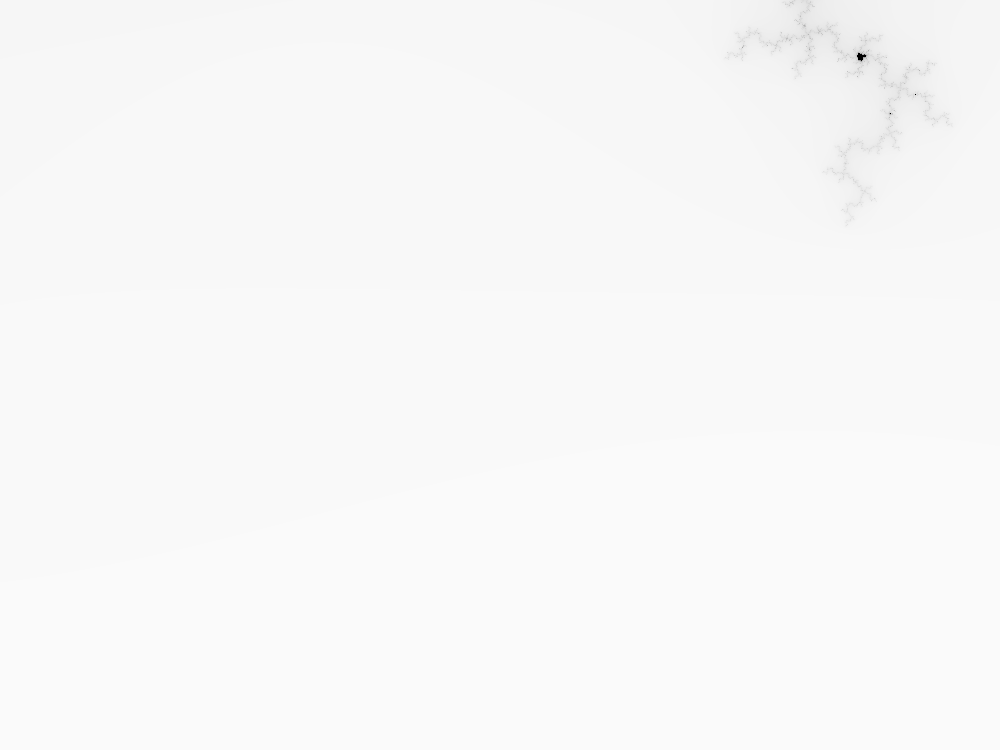
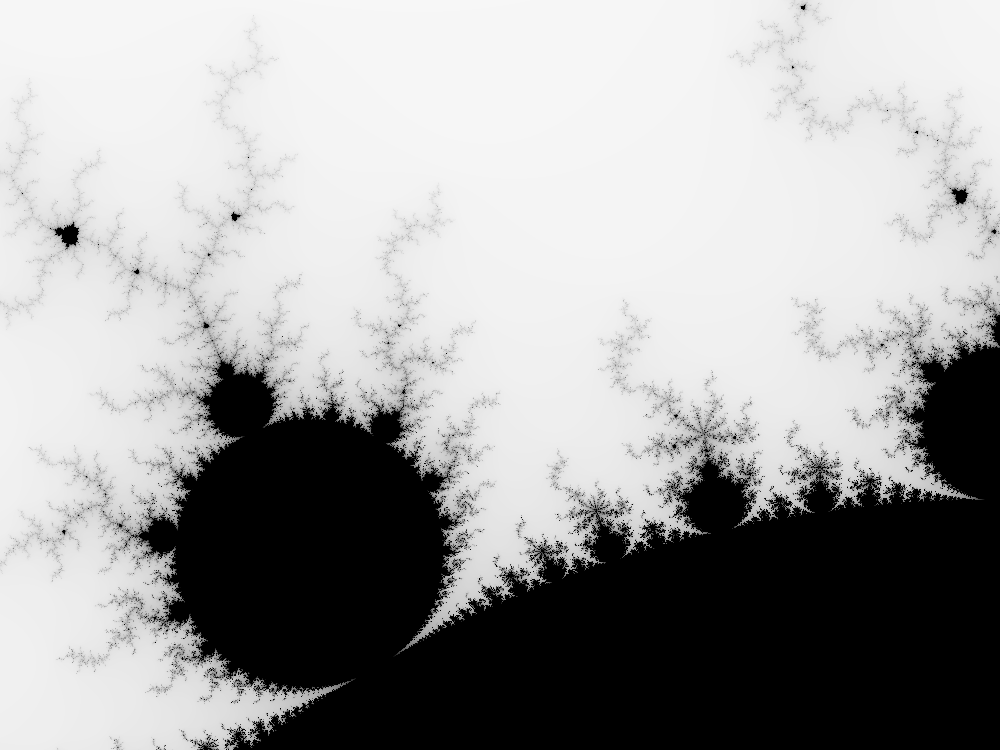
Chapter 2.6 並列化

diff --git a/02_chapter/mandelbrot/src/main.rs b/02_chapter/mandelbrot/src/main.rs
@@ -23,7 +23,27 @@ fn main() {
     let lower_right = parse_complex(&args[4]).expect("error parsing lower right corner point");
 
     let mut pixels = vec![0; bounds.0 * bounds.1];
-    render(&mut pixels, bounds, upper_left, lower_right);
+
+    let thread = 8;
+    let rows_per_band = bounds.1 / thread + 1;
+
+    {
+        let bands: Vec<&mut [u8]> = pixels.chunks_mut(rows_per_band * bounds.0).collect();
+        crossbeam::scope(|spawner| {
+            for (i, band) in bands.into_iter().enumerate() {
+                let top = rows_per_band * i;
+                let height = band.len() / bounds.0;
+                let band_bounds = (bounds.0, height);
+                let band_upper_left = pixel_to_point(bounds, (0, top), upper_left, lower_right);
+                let band_lower_right =
+                    pixel_to_point(bounds, (bounds.0, top + height), upper_left, lower_right);
+                spawner.spawn(move |_| {
+                    render(band, band_bounds, band_upper_left, band_lower_right);
+                });
+            }
+        })
+        .unwrap();
+    }
 
     write_image(&args[1], &pixels, bounds).expect("error writing PNG file")
 }
@@ -39,8 +59,8 @@ fn escape_time(c: Complex<f64>, limit: usize) -> Option<usize> {
     None
 }
 
-fn parse_pair<T: FromStr>(s: &str, spearator: char) -> Option<(T, T)> {
-    match s.find(spearator) {
+fn parse_pair<T: FromStr>(s: &str, separator: char) -> Option<(T, T)> {
+    match s.find(separator) {
         None => None,
         Some(index) => match (T::from_str(&s[..index]), T::from_str(&s[index + 1..])) {
             (Ok(l), Ok(r)) => Some((l, r)),
@@ -69,7 +89,7 @@ fn pixel_to_point(
     );
     Complex {
         re: upper_left.re + pixel.0 as f64 * width / bounds.0 as f64,
-        im: upper_left.im + pixel.1 as f64 * height / bounds.1 as f64,
+        im: upper_left.im - pixel.1 as f64 * height / bounds.1 as f64,
     }
 }
 
@@ -87,7 +107,7 @@ fn render(
             pixels[row * bounds.0 + column] = match escape_time(point, 255) {
                 None => 0,
                 Some(count) => 255 - count as u8,
-            }
+            };
         }
     }
 }
@@ -98,8 +118,15 @@ fn write_image(
     bounds: (usize, usize),
 ) -> Result<(), std::io::Error> {
     let output = File::create(filename)?;
+
     let encoder = PNGEncoder::new(output);
-    encoder.encode(pixels, bounds.0 as u32, bounds.1 as u32, ColorType::Gray(8))?;
+    encoder.encode(
+        &pixels,
+        bounds.0 as u32,
+        bounds.1 as u32,
+        ColorType::Gray(8),
+    )?;
+
     Ok(())
 }
 
